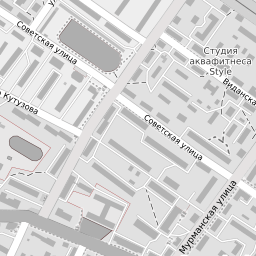
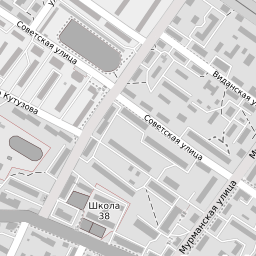
Собраны тайлы для изучения по Виданской17б

diff --git a/www/_Vidanskaja17b/Vidanskaja17b.html b/www/_Vidanskaja17b/Vidanskaja17b.html
@@ -14,9 +14,8 @@
          // Задаем параметры карты
          var mapOptions = 
          {
-            //center: [61.80200,34.32948],
             center: [61.802005577165538,34.329488190742296],
-            zoom: 17
+            zoom: 18
          }
          // Создаем объект карты:
          // а) переменная String, представляет идентификатор DOM или
